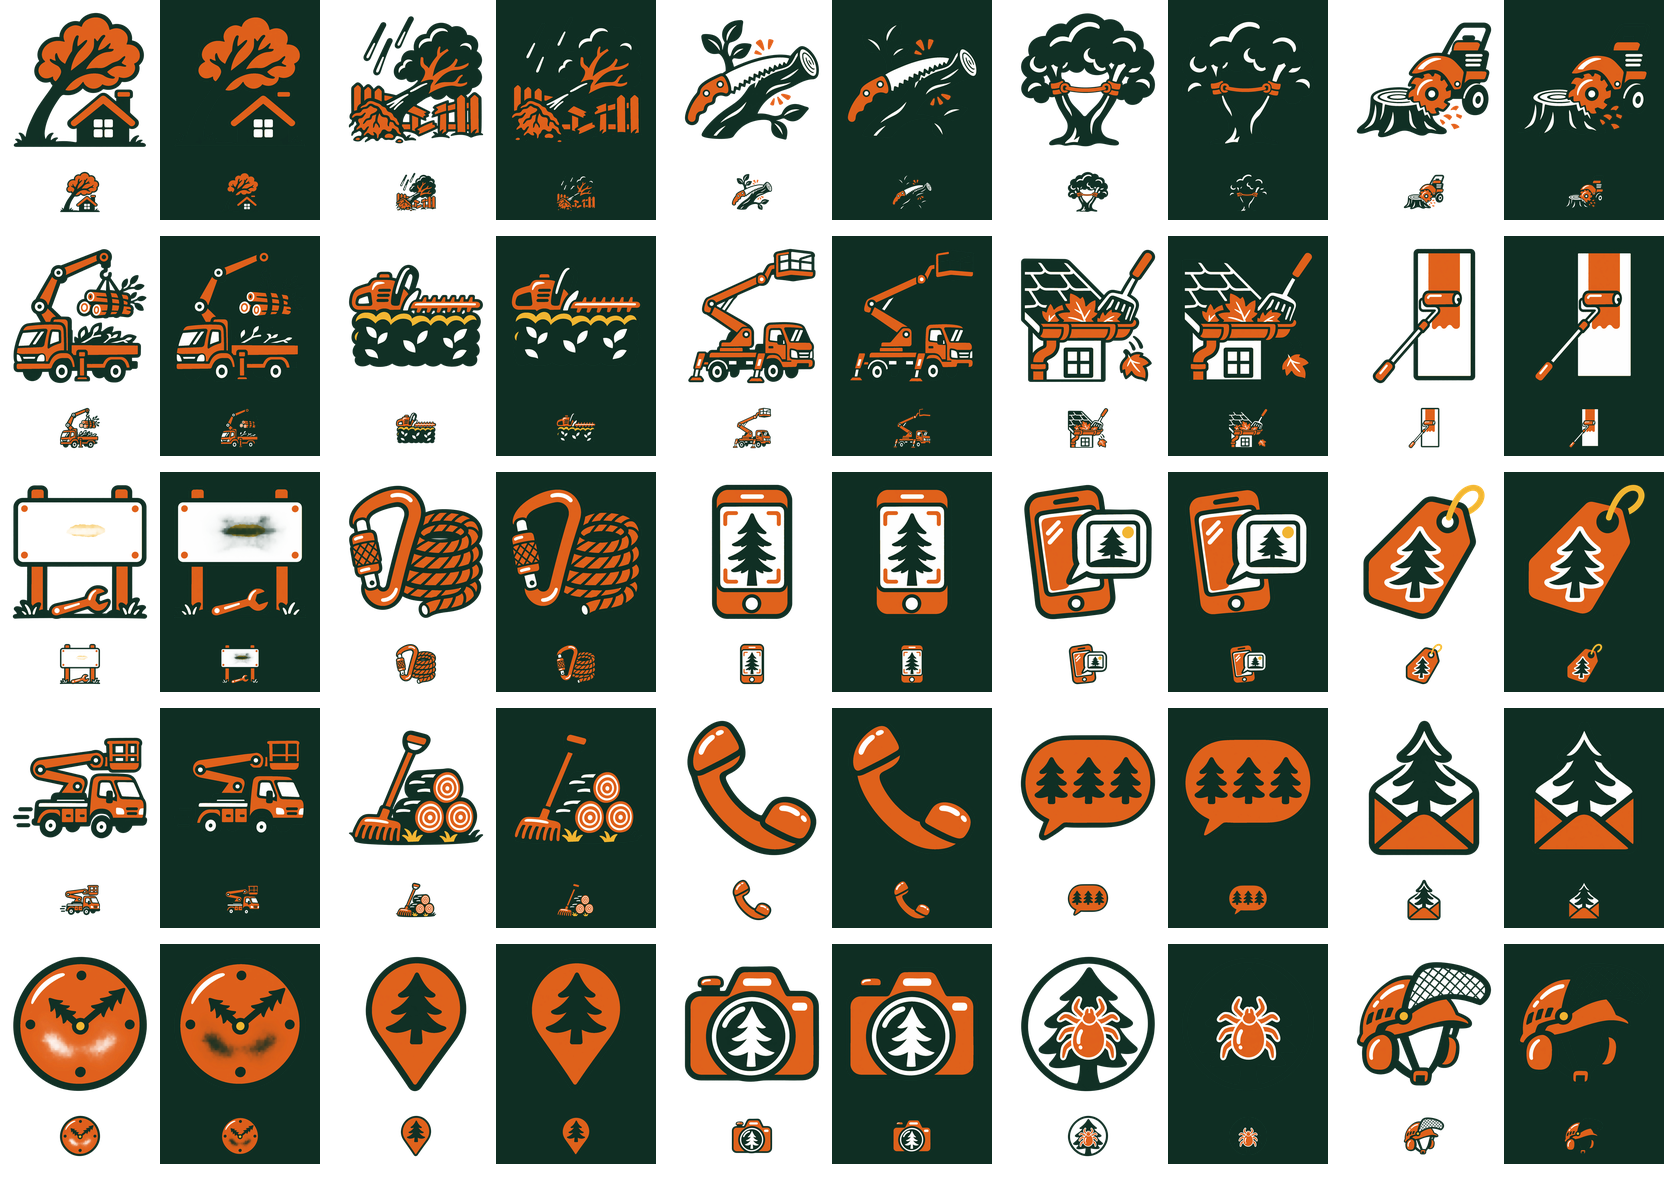
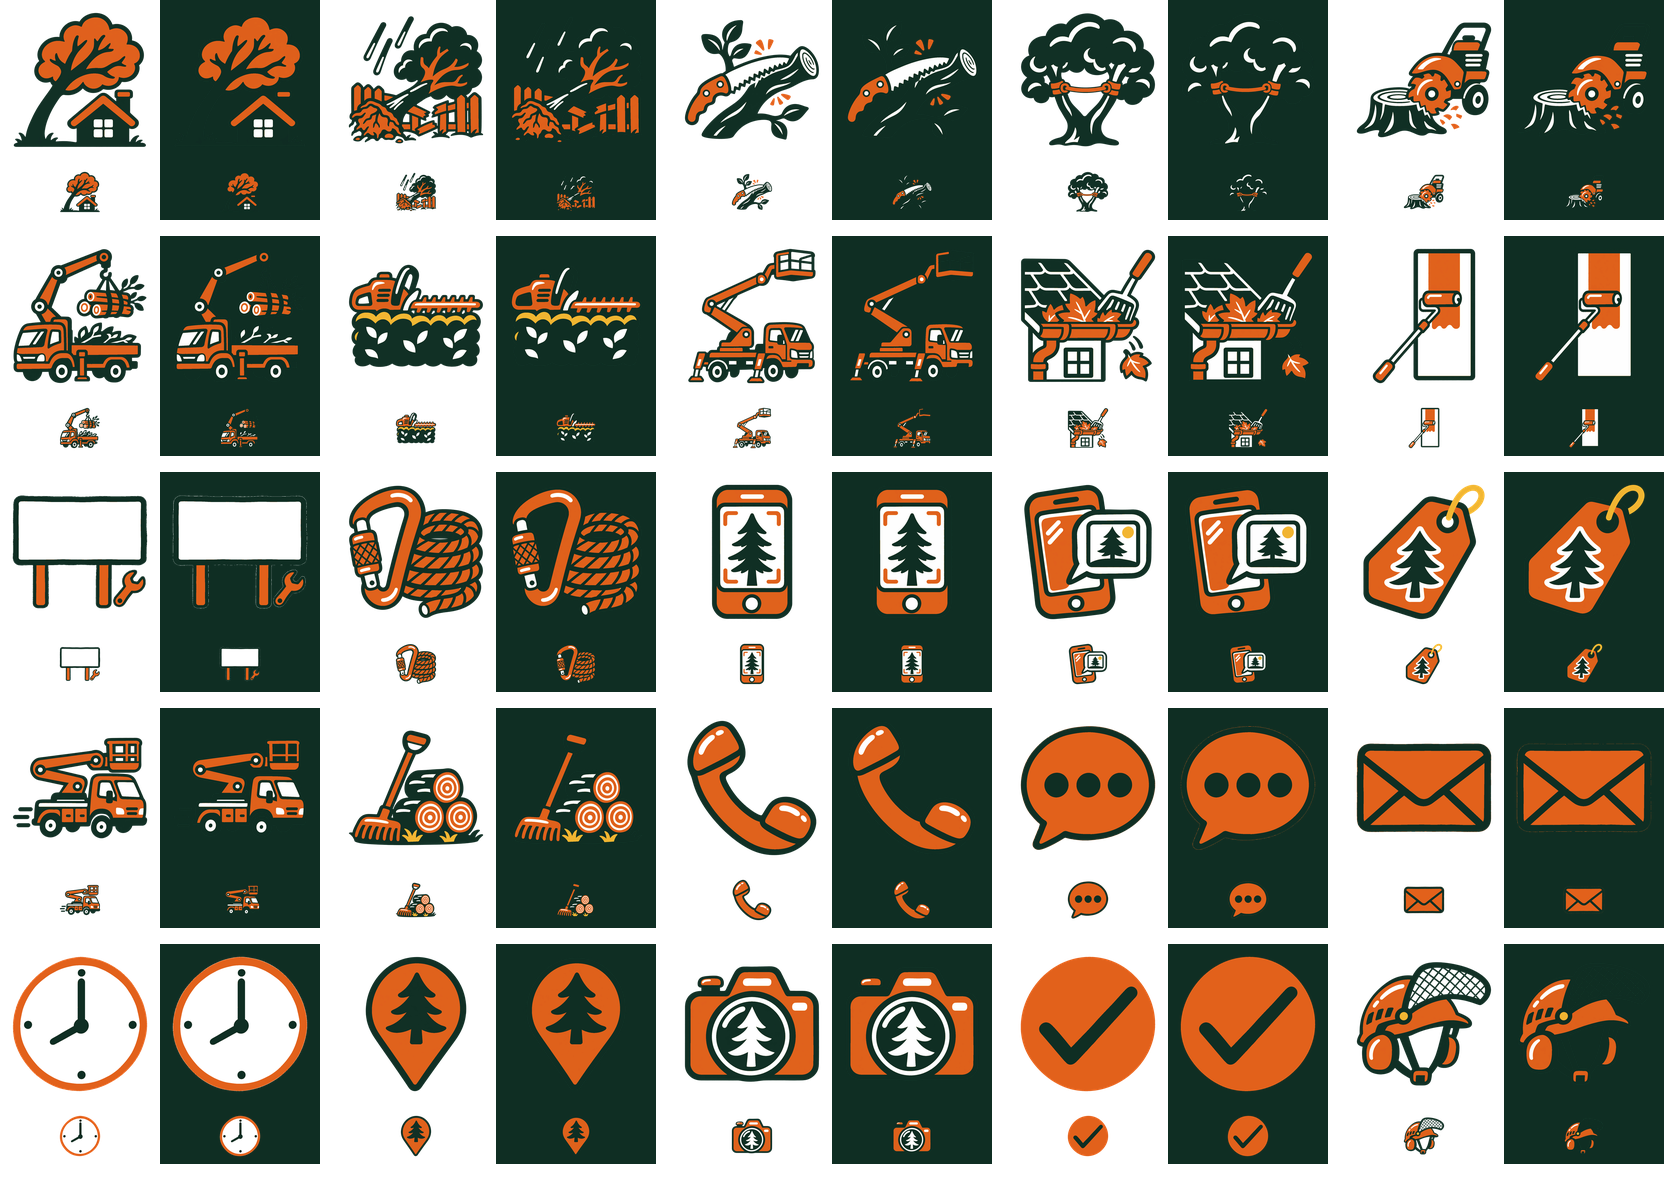
brand: v5 raster kit fixes

diff --git a/public/assets/v5-brand/raster/MANIFEST.md b/public/assets/v5-brand/raster/MANIFEST.md
@@ -1,4 +1,4 @@
-# ArbCut v5 raster kit — PARTIAL
+# ArbCut v5 raster kit
 
 Generated using built-in imagegen only; no paid API, purchases or network uploads. PNG resizing, exact palette flattening, alpha cleanup and contact-sheet assembly performed locally with Pillow/NumPy. No glyphs or SVG used.
 
@@ -79,9 +79,9 @@ Known flaws: none identified in final visual inspection.
 ### 11. svc-iskabos
 Files: `icons/svc-iskabos.png`, `icons/svc-iskabos-160.png`
 
-Prompt: Use case: logo-brand. One bespoke flat raster icon for ArbCut Lithuanian climbing arborist company. SUBJECT: blank rectangular billboard sign being mounted on two posts, small bracket wrench, absolutely empty face. Centered square, entire subject with 8% padding. Flat TWO-colour illustration only deep spruce #0F2E23 and shirt orange #E2611B, white highlights permitted, tiny gold #F4B731 accent only if needed. Chunky rounded outlines about 6% width; slightly hand-made clean friendly sturdy trade-company craft, simple large flat shapes. Readable at 48px, crafted at 160px. Genuine transparent background. No white disc. No gradients shading shadows 3D photorealism emoji thin UI lines, absolutely no text letters digits watermark. Include only the requested objects; no people or extra scenes.
+Prompt: A clean rectangular roadside BILLBOARD/SIGN PANEL on TWO POSTS, with a small orange SPANNER alongside lower right. Sign face is a perfectly PLAIN SOLID WHITE EMPTY rectangle, spruce frame, orange posts, spruce outlined orange spanner. Absolutely NOTHING on panel: NO letters, no emblems, no logos, no markings, no shadows, no smudge. No plants. Single flat two-colour raster illustration in #0F2E23 deep spruce and #E2611B orange; white allowed as specified. Chunky consistent rounded outlines approximately 6% of icon width. Slight handmade wobble but clean friendly sturdy trade-company style. Broad simple shapes legible at 48 pixels and crafted at 160 pixels. Entire subject centered square with 8% transparent padding. True transparent background. NO background disc except requested checkmark circle. NO text letters digits glyphs watermark. NO gradients, shadows, blur, dirt, texture, 3D, photorealism or thin UI lines. Do not add any decorative tree or emblem.
 
-Known flaws: NOT ACCEPTED: generated sign face has a faint partially transparent blemish; needs clean blank-face regeneration.
+Known flaws: none identified after correction; inspected at 48 and 160 px on white and #0F2E23.
 
 ### 12. svc-aukstis
 Files: `icons/svc-aukstis.png`, `icons/svc-aukstis-160.png`
@@ -135,44 +135,44 @@ Known flaws: none identified in final visual inspection.
 ### 19. ui-sms
 Files: `icons/ui-sms.png`, `icons/ui-sms-160.png`
 
-Prompt: Use case: logo-brand. One bespoke flat raster icon for ArbCut Lithuanian climbing arborist company. SUBJECT: orange speech bubble with exactly three large spruce dots. Centered square, entire subject with 8% padding. Flat TWO-colour illustration only deep spruce #0F2E23 and shirt orange #E2611B, white highlights permitted, tiny gold #F4B731 accent only if needed. Chunky rounded outlines about 6% width; slightly hand-made clean friendly sturdy trade-company craft, simple large flat shapes. Readable at 48px, crafted at 160px. Genuine transparent background. No white disc. No gradients shading shadows 3D photorealism emoji thin UI lines, absolutely no text letters digits watermark. Include only the requested objects; no people or extra scenes.
+Prompt: One orange SPEECH BUBBLE with exactly THREE plain filled circular spruce DOTS in a straight horizontal row inside. Dots must be perfectly simple solid round discs, NOT trees or icons. No other subject. NO tree, plant, leaf, animal, emblem or logo. Single flat two-colour raster illustration in #0F2E23 deep spruce and #E2611B orange; white allowed as specified. Chunky consistent rounded outlines approximately 6% of icon width. Slight handmade wobble but clean friendly sturdy trade-company style. Broad simple shapes legible at 48 pixels and crafted at 160 pixels. Entire subject centered square with 8% transparent padding. True transparent background. NO background disc except requested checkmark circle. NO text letters digits glyphs watermark. NO gradients, shadows, blur, dirt, texture, 3D, photorealism or thin UI lines. Do not add any decorative tree or emblem.
 
-Known flaws: NOT ACCEPTED: three trees were generated instead of three dots.
+Known flaws: none identified after correction; inspected at 48 and 160 px on white and #0F2E23.
 
 ### 20. ui-mail
 Files: `icons/ui-mail.png`, `icons/ui-mail-160.png`
 
-Prompt: Use case: logo-brand. One bespoke flat raster icon for ArbCut Lithuanian climbing arborist company. SUBJECT: orange envelope with chunky spruce outline and clear flap. Centered square, entire subject with 8% padding. Flat TWO-colour illustration only deep spruce #0F2E23 and shirt orange #E2611B, white highlights permitted, tiny gold #F4B731 accent only if needed. Chunky rounded outlines about 6% width; slightly hand-made clean friendly sturdy trade-company craft, simple large flat shapes. Readable at 48px, crafted at 160px. Genuine transparent background. No white disc. No gradients shading shadows 3D photorealism emoji thin UI lines, absolutely no text letters digits watermark. Include only the requested objects; no people or extra scenes.
+Prompt: A plain CLOSED ENVELOPE, orange paper with chunky spruce contour and diagonal flap folds. Simple familiar rectangular mailed-letter envelope. NOTHING sticking out, closed flap, no stamps, no logos, no trees, no plants, no emblems. Single flat two-colour raster illustration in #0F2E23 deep spruce and #E2611B orange; white allowed as specified. Chunky consistent rounded outlines approximately 6% of icon width. Slight handmade wobble but clean friendly sturdy trade-company style. Broad simple shapes legible at 48 pixels and crafted at 160 pixels. Entire subject centered square with 8% transparent padding. True transparent background. NO background disc except requested checkmark circle. NO text letters digits glyphs watermark. NO gradients, shadows, blur, dirt, texture, 3D, photorealism or thin UI lines. Do not add any decorative tree or emblem.
 
-Known flaws: NOT ACCEPTED: unwanted tree extends above envelope.
+Known flaws: none identified after correction; inspected at 48 and 160 px on white and #0F2E23.
 
 ### 21. ui-clock
 Files: `icons/ui-clock.png`, `icons/ui-clock-160.png`
 
-Prompt: Use case: logo-brand. One bespoke flat raster icon for ArbCut Lithuanian climbing arborist company. SUBJECT: orange round analog clock with spruce hands and just four dot hour markers, NO numerals. Centered square, entire subject with 8% padding. Flat TWO-colour illustration only deep spruce #0F2E23 and shirt orange #E2611B, white highlights permitted, tiny gold #F4B731 accent only if needed. Chunky rounded outlines about 6% width; slightly hand-made clean friendly sturdy trade-company craft, simple large flat shapes. Readable at 48px, crafted at 160px. Genuine transparent background. No white disc. No gradients shading shadows 3D photorealism emoji thin UI lines, absolutely no text letters digits watermark. Include only the requested objects; no people or extra scenes.
+Prompt: A clean round WALL CLOCK showing exactly 8:00: long minute hand points straight UP, short hour hand points LOWER LEFT toward eight o'clock. Clean white face, thick orange rim, spruce hands and four simple dot markers at cardinal positions. No numerals. NO trees, leaves, plants, smudges, dirt, blur, textures or logos. Single flat two-colour raster illustration in #0F2E23 deep spruce and #E2611B orange; white allowed as specified. Chunky consistent rounded outlines approximately 6% of icon width. Slight handmade wobble but clean friendly sturdy trade-company style. Broad simple shapes legible at 48 pixels and crafted at 160 pixels. Entire subject centered square with 8% transparent padding. True transparent background. NO background disc except requested checkmark circle. NO text letters digits glyphs watermark. NO gradients, shadows, blur, dirt, texture, 3D, photorealism or thin UI lines. Do not add any decorative tree or emblem.
 
-Known flaws: NOT ACCEPTED: unwanted trees form the hands and faint blemish occupies lower face; needs regeneration.
+Known flaws: none identified after correction; inspected at 48 and 160 px on white and #0F2E23.
 
 ### 22. ui-pin
 Files: `icons/ui-pin.png`, `icons/ui-pin-160.png`
 
 Prompt: Use case: logo-brand. One bespoke flat raster icon for ArbCut Lithuanian climbing arborist company. SUBJECT: orange map location pin with round spruce center dot. Centered square, entire subject with 8% padding. Flat TWO-colour illustration only deep spruce #0F2E23 and shirt orange #E2611B, white highlights permitted, tiny gold #F4B731 accent only if needed. Chunky rounded outlines about 6% width; slightly hand-made clean friendly sturdy trade-company craft, simple large flat shapes. Readable at 48px, crafted at 160px. Genuine transparent background. No white disc. No gradients shading shadows 3D photorealism emoji thin UI lines, absolutely no text letters digits watermark. Include only the requested objects; no people or extra scenes.
 
-Known flaws: NOT ACCEPTED: tree in pin instead of required spruce dot.
+Review: accepted as delivered by the lead in the five-icon correction brief. Original generated tree detail retained; this asset was not modified.
 
 ### 23. ui-camera
 Files: `icons/ui-camera.png`, `icons/ui-camera-160.png`
 
 Prompt: Use case: logo-brand. One bespoke flat raster icon for ArbCut Lithuanian climbing arborist company. SUBJECT: orange classic camera with large spruce circular lens and small top shutter. Centered square, entire subject with 8% padding. Flat TWO-colour illustration only deep spruce #0F2E23 and shirt orange #E2611B, white highlights permitted, tiny gold #F4B731 accent only if needed. Chunky rounded outlines about 6% width; slightly hand-made clean friendly sturdy trade-company craft, simple large flat shapes. Readable at 48px, crafted at 160px. Genuine transparent background. No white disc. No gradients shading shadows 3D photorealism emoji thin UI lines, absolutely no text letters digits watermark. Include only the requested objects; no people or extra scenes.
 
-Known flaws: NOT ACCEPTED: unwanted tree inside camera lens.
+Review: accepted as delivered by the lead in the five-icon correction brief. Original generated tree detail retained; this asset was not modified.
 
 ### 24. ui-check
 Files: `icons/ui-check.png`, `icons/ui-check-160.png`
 
-Prompt: Use case: logo-brand. One bespoke flat raster icon for ArbCut Lithuanian climbing arborist company. SUBJECT: bold spruce tick inside a spruce circle, white negative space. Centered square, entire subject with 8% padding. Flat TWO-colour illustration only deep spruce #0F2E23 and shirt orange #E2611B, white highlights permitted, tiny gold #F4B731 accent only if needed. Chunky rounded outlines about 6% width; slightly hand-made clean friendly sturdy trade-company craft, simple large flat shapes. Readable at 48px, crafted at 160px. Genuine transparent background. No white disc. No gradients shading shadows 3D photorealism emoji thin UI lines, absolutely no text letters digits watermark. Include only the requested objects; no people or extra scenes.
+Prompt: A bold CHECKMARK meaning completed/approved: one large angular V-shaped check STROKE inside one solid orange CIRCLE. The check has a short descending left arm and long ascending right arm, like a handwritten completion check. Spruce #0F2E23 check on orange #E2611B disc. This is a CHECK MARK, NOT a tick animal. NO bug, insect, spider, animal, tree, leaf or plant. Single flat two-colour raster illustration in #0F2E23 deep spruce and #E2611B orange; white allowed as specified. Chunky consistent rounded outlines approximately 6% of icon width. Slight handmade wobble but clean friendly sturdy trade-company style. Broad simple shapes legible at 48 pixels and crafted at 160 pixels. Entire subject centered square with 8% transparent padding. True transparent background. NO background disc except requested checkmark circle. NO text letters digits glyphs watermark. NO gradients, shadows, blur, dirt, texture, 3D, photorealism or thin UI lines. Do not add any decorative tree or emblem.
 
-Known flaws: NOT ACCEPTED: generator interpreted tick as insect, with tree backdrop; required bold checkmark missing.
+Known flaws: none identified after correction; inspected at 48 and 160 px on white and #0F2E23.
 
 ### 25. ui-helmet
 Files: `icons/ui-helmet.png`, `icons/ui-helmet-160.png`
@@ -224,10 +224,10 @@ Known flaws: none identified in final visual inspection.
 1680×1180 RGBA comparison sheet. Local composition of all 25 exported icons on white and #0F2E23, at 160 px and 48 px. No image-generation prompt.
 
 ## Verification
-All requested filenames, dimensions, alpha channels and transparent padding checked locally. Every icon inspected at 160 px and 48 px on white and spruce. Seven icons failed subject/clean-face acceptance and remain drafts at the requested paths (see individual Known flaws). Eighteen icons passed visual inspection. Stars share alpha; rope edge columns match. Subject corrections: removed unwanted climber from leaning-tree icon; regenerated paint roller against wall; regenerated rope to expose braid. Palette flattening removes model shading and off-palette greens. Seal center and ribbon remain empty.
+All requested filenames, dimensions and alpha channels checked locally. Original 20 icons accepted as delivered by the lead. The five requested replacements (ui-check, ui-clock, svc-iskabos, ui-sms, ui-mail) were individually generated with built-in imagegen, flattened to the brand palette, and inspected in the rebuilt contact sheet at 160 px and 48 px on white and #0F2E23. Local alpha cleanup fills enclosed transparency blemishes and restores opaque flat surfaces before Lanczos resizing. All five subjects pass: completion checkmark; clean clock at 8:00; blank panel on two posts with spanner; three-dot speech bubble; closed envelope. No text or extra trees in the replacements. Original accepted assets were not rewritten. Stars share alpha; rope edge columns match. Seal center and ribbon remain empty.
 
 ## Remaining
-Regenerate svc-iskabos, ui-sms, ui-mail, ui-clock, ui-pin, ui-camera and ui-check; inspect those replacements and rebuild the contact sheet. User budget steer stopped further generation. No missing requested files; seven subjects are unaccepted.
+No outstanding corrections within this five-icon follow-up. Website integration and final lead review remain outside this asset-only task.
 
 ## Integration
 Use white circles behind icons on colored website bands, per design brain B8. Website placement, contrast in final layout, and HTML seal text remain the lead’s work. No website source was changed.
